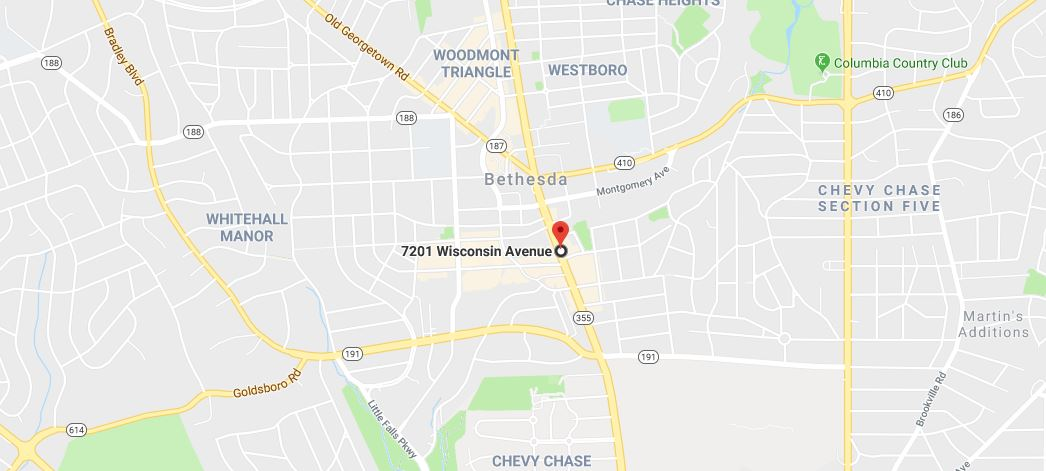
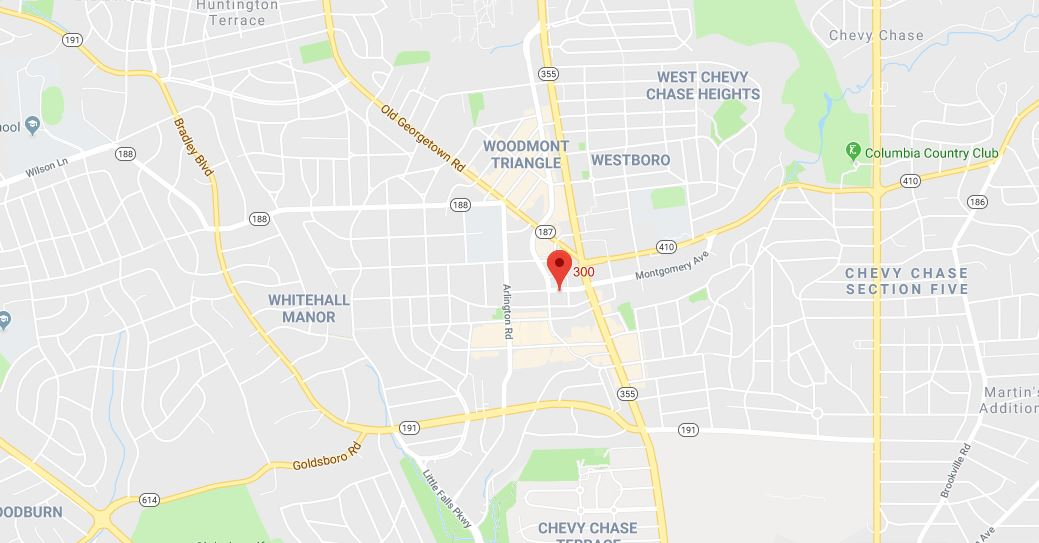
First commit final project

diff --git a/final-project/contact.html b/final-project/contact.html
@@ -4,8 +4,8 @@
 <head>
     <meta charset="utf-8" />
     <meta name="viewport" content="width=device-width, initial-scale=1, maximum-scale=1">
-    <title>Reservation - The Temple Inn & Suites</title>
-    <meta name="description" content="Reservation - The Temple Inn & Suites">
+    <title>Contact page - The Temple Inn & Suites</title>
+    <meta name="description" content="Contact page - The Temple Inn & Suites">
     <link rel="stylesheet" href="https://cdnjs.cloudflare.com/ajax/libs/normalize/5.0.0/normalize.min.css">
     <link rel="stylesheet" media="(min-width: 850px)" href="styles/large-5.css">
     <link rel="stylesheet" media="(max-width: 1024px)" href="styles/medium-5.css">
@@ -30,9 +30,9 @@
         <ul class="mainmenu">
             <li><a href="index.html">Home</a></li>
             <li><a href="temple.html">Temple</a></li>
-            <li><a href="reservation.html" class="current">Reservation</a></li>
+            <li><a href="reservation.html">Reservation</a></li>
             <li><a href="services.html">Services</a></li>
-            <li><a href="contact.html">Contact</a></li>
+            <li><a href="contact.html" class="current">Contact</a></li>
         </ul>
     </nav>
     <nav class="nav-mobile">
@@ -43,9 +43,9 @@
         <ul class="navigation mainmenu">
             <li><a href="index.html">Home</a></li>
             <li><a href="temple.html">Temple</a></li>
-            <li><a href="reservation.html" class="current">Reservation</a></li>
+            <li><a href="reservation.html">Reservation</a></li>
             <li><a href="services.html">Services</a></li>
-            <li><a href="contact.html">Contact</a></li>
+            <li><a href="contact.html" class="current">Contact</a></li>
         </ul>
     </nav>
     <main>
@@ -58,57 +58,51 @@
                             1100px">
             </figure>
             <div class="hero-headings">
-                <h1>Make a Reservation</h1>
+                <h1>Contact Us</h1>
             </div>
         </div>
-        <form method="get" action="reservation-thank-you.html">
-            <fieldset>
-                <legend>Registrant's Information</legend>
-                <label class="top">Full Name* <input pattern="[A-Za-z ]{5,}" type="text" name="fname" required></label>
-                <label class="top">Email <input type="email" name="email" placeholder="someone@gmail.com"></label>
-                <label class="top">Phone* <input type="tel" name="phone" placeholder="1235551234" required></label>
-                <label class="top">Home State or Country* <input type="text" name="state" required></label>
-            </fieldset>
-            <fieldset>
-                <legend>Reservation Information</legend>
-                <label class="top" required>Hotel Location*
-                    <input list="location" name="location" required />
-                    <datalist id="location">
-                        <option value="Houston">
-                        <option value="Mount Timpanogos">
-                        <option value="Newport Beach">
-                        <option value="Vancouver">
-                    </datalist>
-                </label>
-                <label class="top">From* <input type="date" name="fromDate" required></label>
-                <label class="top">To* <input type="date" name="toDate" required></label>
-                <label class="range"  required>Number of Rooms (1 to 5):
-                    <input type="range" id="rating" value="1" name="rooms" min="1" max="5" step="1" oninput="adjustRating(this.value)"
-                        onchange="adjustRating(this.value)" required>
-                    <span id="ratingvalue">1</span>
-                </label>
-                <label class="top">Type of room
-                    <select name="room-type">
-                        <option value="">Select Room ...</option>
-                        <option value="franklin">Single</option>
-                        <option value="greenville">Double</option>
-                        <option value="greenville">Quad</option>
-                        <option value="springfield">Twin</option>
-                        <option value="springfield">king</option>
-                    </select>
-                </label>
+        <div class="homepage-cards">
+            <div class="new-hotel">
+                <img src="images/hotel-chain.jpg" alt="Hotel Chain">
+                <div class="new-hotel-card">
+                    <h3 class="subheading">CONTACT INFO</h3>
+                    <b>The Temple Inn & Suites headquarters</b>
+                    <p>4800 Montgomery Ln #300</p>
+                    <p>Bethesda, MD 20814</p>
+                    <p>United States</p><br>
+                    <b>Telephone</b>
+                    <p>(1) 949-644-1820</p>
+                </div>
+            </div>
+            <div class="new-hotel">
+                <div class="map-embed">
+                    <iframe src="https://www.google.com/maps/embed?pb=!1m18!1m12!1m3!1d3101.40483702856!2d-77.09772048432363!3d38.98325594948311!2m3!1f0!2f0!3f0!3m2!1i1024!2i768!4f13.1!3m3!1m2!1s0x89b7c97b6b3b5b43%3A0x9c8eb1c5547b83eb!2s4800+Montgomery+Ln+%23300%2C+Bethesda%2C+MD+20814%2C+EE.+UU.!5e0!3m2!1ses-419!2suy!4v1545284692910"
+                        width="600" height="450" frameborder="0" style="border:0" allowfullscreen></iframe>
+                </div>
+                <div class="new-hotel-card contact-form">
+                    <form method="get" action="contact-thank-you.html">
+                        <fieldset>
+                            <legend>Contact Form</legend>
+                            <label class="top">Full Name* <input pattern="[A-Za-z ]{5,}" type="text" name="fname"
+                                    required></label>
+                            <label class="top">Email <input type="email" name="email" placeholder="someone@gmail.com"
+                                    required></label>
+                            <label class="top">Phone <input type="tel" name="phone" placeholder="1235551234" ></label>
+                            <label class="top">Home State or Country* <input type="text" name="state" required></label>
+                            <label class="top" required>Comments <textarea name="comments" rows="10" cols="50"></textarea></label>
+                        </fieldset>
 
-                <label class="top">Additional Information or Comments <textarea name="comments" rows="10" cols="50"></textarea></label>
-            </fieldset>
-            <input type="submit" value="Make Reservation" class="submitBtn">
-        </form>
-
+                        <input type="submit" value="Send" class="submitBtn">
+                    </form>
+                </div>
+            </div>
+        </div>
         <footer>
             <div id="footer-info">
                 <div class="contact-info">
                     <h4>The Temple Inn & Suites</h4>
-                    <p>Central ofices: 41W 1stN</p>
-                    <p>Bethesda, MD 8779</p>
+                    <p>4800 Montgomery Ln #300</p>
+                    <p>Bethesda, MD 20814</p>
                     <p>Phone: 1233 4456 7676</p>
                     <a href="mailto:info@templeinn.com?Subject=Hello%20from%20your%20site" target="_top">info@templeinn.com</a>
                     <div class="social-icons">
@@ -130,7 +124,6 @@
     <script src="js/hamburger.js"></script>
     <script src="js/populate.js"></script>
     <script src="js/weather-header.js"></script>
-    <script src="js/stormCenter.js"></script>
 </body>
 
 </html>

diff --git a/final-project/reservation-thank-you.html b/final-project/reservation-thank-you.html
@@ -4,8 +4,8 @@
 <head>
     <meta charset="utf-8" />
     <meta name="viewport" content="width=device-width, initial-scale=1, maximum-scale=1">
-    <title>Reservation - The Temple Inn & Suites</title>
-    <meta name="description" content="Reservation - The Temple Inn & Suites">
+    <title>Reservation completed - The Temple Inn & Suites</title>
+    <meta name="description" content="Reservation completed - The Temple Inn & Suites">
     <link rel="stylesheet" href="https://cdnjs.cloudflare.com/ajax/libs/normalize/5.0.0/normalize.min.css">
     <link rel="stylesheet" media="(min-width: 850px)" href="styles/large-5.css">
     <link rel="stylesheet" media="(max-width: 1024px)" href="styles/medium-5.css">
@@ -58,50 +58,10 @@
                             1100px">
             </figure>
             <div class="hero-headings">
-                <h1>Make a Reservation</h1>
+                <h1>Reservation completed</h1>
             </div>
         </div>
-        <form method="get" action="reservation-thank-you.html">
-            <fieldset>
-                <legend>Registrant's Information</legend>
-                <label class="top">Full Name* <input pattern="[A-Za-z ]{5,}" type="text" name="fname" required></label>
-                <label class="top">Email <input type="email" name="email" placeholder="someone@gmail.com"></label>
-                <label class="top">Phone* <input type="tel" name="phone" placeholder="1235551234" required></label>
-                <label class="top">Home State or Country* <input type="text" name="state" required></label>
-            </fieldset>
-            <fieldset>
-                <legend>Reservation Information</legend>
-                <label class="top" required>Hotel Location*
-                    <input list="location" name="location" required />
-                    <datalist id="location">
-                        <option value="Houston">
-                        <option value="Mount Timpanogos">
-                        <option value="Newport Beach">
-                        <option value="Vancouver">
-                    </datalist>
-                </label>
-                <label class="top">From* <input type="date" name="fromDate" required></label>
-                <label class="top">To* <input type="date" name="toDate" required></label>
-                <label class="range"  required>Number of Rooms (1 to 5):
-                    <input type="range" id="rating" value="1" name="rooms" min="1" max="5" step="1" oninput="adjustRating(this.value)"
-                        onchange="adjustRating(this.value)" required>
-                    <span id="ratingvalue">1</span>
-                </label>
-                <label class="top">Type of room
-                    <select name="room-type">
-                        <option value="">Select Room ...</option>
-                        <option value="franklin">Single</option>
-                        <option value="greenville">Double</option>
-                        <option value="greenville">Quad</option>
-                        <option value="springfield">Twin</option>
-                        <option value="springfield">king</option>
-                    </select>
-                </label>
-
-                <label class="top">Additional Information or Comments <textarea name="comments" rows="10" cols="50"></textarea></label>
-            </fieldset>
-            <input type="submit" value="Make Reservation" class="submitBtn">
-        </form>
+        <h1 class="thanks">Thanks for your reservation.</h1>
 
         <footer>
             <div id="footer-info">

diff --git a/final-project/styles/large-5.css b/final-project/styles/large-5.css
@@ -463,7 +463,7 @@ form label.sbs {
 
 form input.submitBtn {
     border: none;
-    background-color: #1a535c;
+    background-color: #2b4162;
     color: #fff;
     border-radius: 1rem;
     padding: .75rem 1.5rem;
@@ -606,4 +606,25 @@ textarea {
 
 #current-weather-icon {
     width: 100px;
+}
+
+.new-hotel .new-hotel-card.contact-form {
+    padding: 1% 0%;
+}
+
+.homepage-cards .contact-form {
+    text-align: left !important;
+}
+
+.map-embed {
+    width: 50%;
+    max-height: 100%;
+    margin-top: 0px;
+    object-fit: cover;
+    padding: 0px !important;
+}
+
+.map-embed iframe{
+    border: 0;
+    height: -webkit-fill-available;
 }

diff --git a/final-project/index.html b/final-project/index.html
@@ -61,7 +61,9 @@
                 <h1>Mount Timpanogos Temple</h1>
                 <h2>Utah</h2>
                 <div class="reservation-btn">
-                    <p>Make Reservation</p>
+                    <a href="reservation.html">
+                        <p>Make Reservation</p>
+                    </a>
                 </div>
             </div>
         </div>

diff --git a/final-project/styles/small-5.css b/final-project/styles/small-5.css
@@ -687,3 +687,15 @@ footer .contact-info {
 #current-weather-icon {
     width: 100px;
 }
+
+.map-embed iframe{
+    width: 100%;
+}
+
+.new-hotel .new-hotel-card.contact-form {
+    padding: 1% 0%;
+}
+
+.homepage-cards .contact-form {
+    text-align: left !important;
+}
